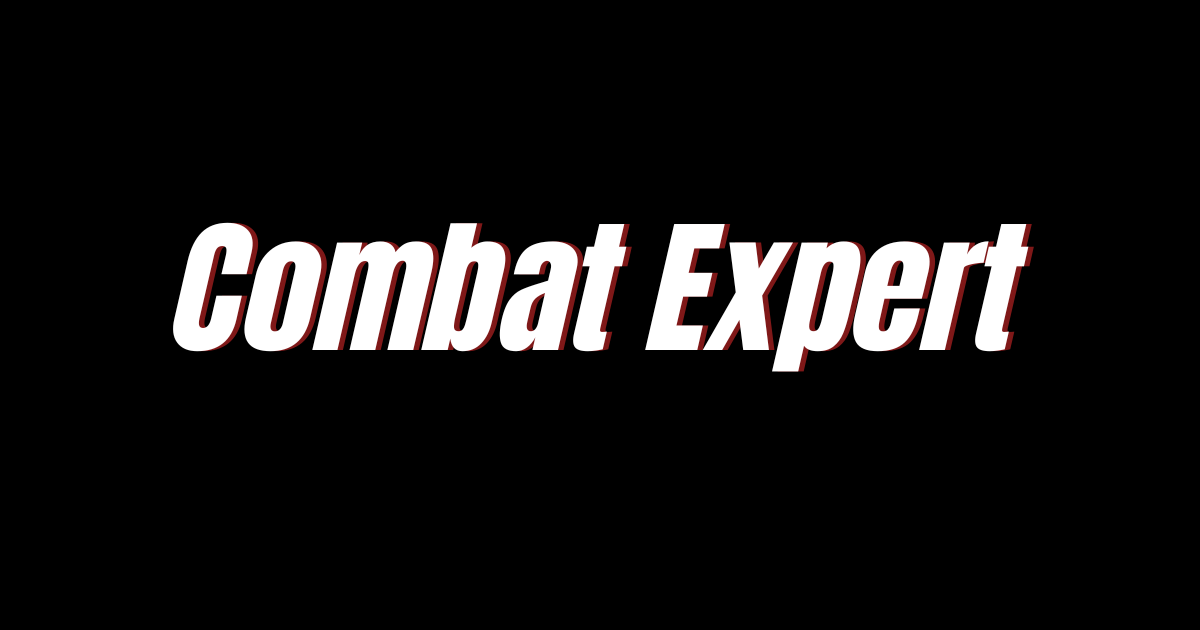
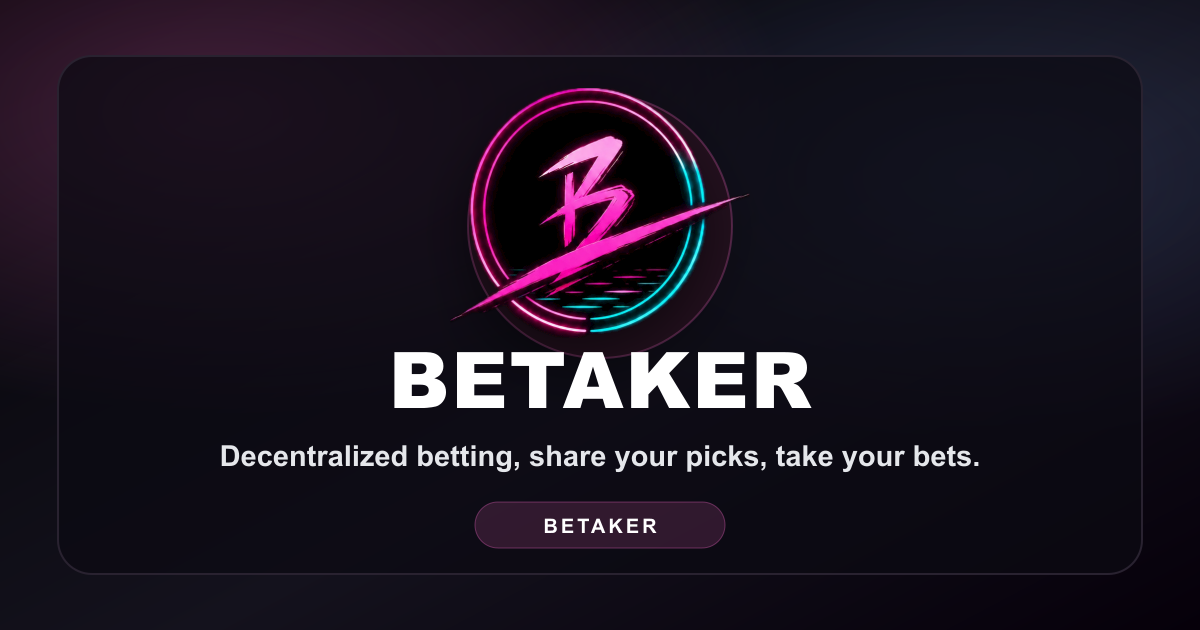
Update BETAKER branding and mobile header

diff --git a/src/compositions/app/MobileMenuSheet.tsx b/src/compositions/app/MobileMenuSheet.tsx
@@ -9,10 +9,8 @@ type MobileMenuSheetProps = {
   isOpen: boolean
   gameStatusFilter: 'all' | 'live' | 'upcoming'
   sportFilter: string
-  gameSearchQuery: string
   sports: SportFilterItem[]
   liveSports: SportFilterItem[]
-  onGameSearchQueryChange: (value: string) => void
   onClose: () => void
   onSelectGameStatus: (value: 'all' | 'live' | 'upcoming') => void
   onSelectSport: (value: string) => void
@@ -31,10 +29,8 @@ export function MobileMenuSheet({
   isOpen,
   gameStatusFilter,
   sportFilter,
-  gameSearchQuery,
   sports,
   liveSports,
-  onGameSearchQueryChange,
   onClose,
   onSelectGameStatus,
   onSelectSport,
@@ -100,35 +96,7 @@ export function MobileMenuSheet({
       />
       <aside className="ui-surface-soft absolute inset-y-0 right-0 flex w-[min(84vw,340px)] flex-col border-l p-4 shadow-2xl">
         <div className="flex items-center gap-2">
-          <p className="ui-text-strong m-0 shrink-0 text-base font-semibold">{t('games.sports')}</p>
-          <div className="flex h-8 min-w-0 flex-1 items-center gap-2 rounded-md border border-[color:var(--app-border)] bg-[color:var(--app-surface)] px-2 transition focus-within:border-[color:color-mix(in_srgb,var(--app-accent)_55%,transparent)]">
-            <label className="sr-only" htmlFor="mobile-menu-game-search">{t('common.search')}</label>
-            <svg aria-hidden="true" className="ui-text-muted h-3.5 w-3.5 shrink-0" fill="none" stroke="currentColor" strokeWidth="1.8" viewBox="0 0 24 24">
-              <circle cx="11" cy="11" r="6.5" />
-              <path d="M16 16L21 21" />
-            </svg>
-            <input
-              id="mobile-menu-game-search"
-              className="ui-text-strong min-w-0 flex-1 border-0 bg-transparent text-xs font-semibold outline-none placeholder:text-[color:var(--app-text-muted)]"
-              placeholder={t('games.searchPlaceholder')}
-              type="search"
-              value={gameSearchQuery}
-              onChange={(event) => onGameSearchQueryChange(event.target.value)}
-            />
-            {gameSearchQuery ? (
-              <button
-                aria-label={t('common.close')}
-                className="ui-text-muted inline-flex h-5 w-5 shrink-0 items-center justify-center rounded-full border-0 bg-transparent transition hover:text-[color:var(--app-text-strong)]"
-                onClick={() => onGameSearchQueryChange('')}
-                type="button"
-              >
-                <svg aria-hidden="true" className="h-3.5 w-3.5" fill="none" stroke="currentColor" strokeWidth="2" viewBox="0 0 24 24">
-                  <path d="M6 6l12 12" strokeLinecap="round" />
-                  <path d="M18 6 6 18" strokeLinecap="round" />
-                </svg>
-              </button>
-            ) : null}
-          </div>
+          <p className="ui-text-strong m-0 min-w-0 flex-1 text-base font-semibold">{t('games.sports')}</p>
           <button className="ui-btn-secondary btn-shell inline-flex h-8 w-8 items-center justify-center" onClick={onClose} type="button">
             <svg aria-hidden="true" className="h-4 w-4" fill="none" viewBox="0 0 24 24">
               <path d="M6 6L18 18" stroke="currentColor" strokeWidth="1.8" />

diff --git a/api/_lib/marketOgImage.js b/api/_lib/marketOgImage.js
@@ -33,15 +33,15 @@ function getInitials(name) {
 }
 
 const COLORS = {
-  bg: '#000000',
-  surface: '#0b0f14',
-  surfaceSoft: '#0f141c',
-  border: '#1f2937',
-  textStrong: '#e6eef8',
-  textBody: '#b5c2d2',
-  textMuted: '#8090a4',
-  accent: '#ff6b00',
-  accentSoft: '#3a2519',
+  bg: '#030306',
+  surface: '#0c0b12',
+  surfaceSoft: '#14121d',
+  border: '#292230',
+  textStrong: '#ffffff',
+  textBody: '#e5e7eb',
+  textMuted: '#9ca3af',
+  accent: '#d35aab',
+  accentSoft: '#24111f',
 }
 
 function formatOdds(odds) {
@@ -83,9 +83,9 @@ function ParticipantBadge({ name, align, imageUrl }) {
           style: {
             width: '100%',
             height: '100%',
-            border: '1px solid rgba(255, 107, 0, 0.24)',
+            border: '1px solid rgba(211, 90, 171, 0.24)',
             borderRadius: 999,
-            background: `linear-gradient(180deg, rgba(255, 107, 0, 0.22), ${COLORS.surface})`,
+            background: `linear-gradient(180deg, rgba(211, 90, 171, 0.22), ${COLORS.surface})`,
             alignItems: 'center',
             justifyContent: 'center',
           },
@@ -232,11 +232,11 @@ export function MarketOgImage({ game, marketPreview, participantImages = [] }) {
               height: 36,
               borderRadius: 999,
               background: COLORS.accent,
-              boxShadow: '0 0 0 5px rgba(255, 107, 0, 0.14)',
+              boxShadow: '0 0 0 5px rgba(211, 90, 171, 0.14)',
             },
           },
         ),
-        'Combat Expert',
+        'BETAKER',
       ),
       h(
         'div',
@@ -428,7 +428,7 @@ export function MarketOgImage({ game, marketPreview, participantImages = [] }) {
             },
           },
         ),
-        'combatexpert.xyz',
+        'BETAKER',
       ),
     ),
   )

diff --git a/api/_lib/picksOgHelpers.js b/api/_lib/picksOgHelpers.js
@@ -1,15 +1,15 @@
 import { getParticipantNames } from './marketOgImage.js'
 
 export const PICKS_OG_COLORS = {
-  bg: '#030405',
-  surface: '#0b0f14',
-  surfaceSoft: '#111821',
-  border: '#2d3949',
-  textStrong: '#f4f7fb',
-  textBody: '#c7d0dd',
-  textMuted: '#7f8da1',
-  accent: '#ff6b00',
-  accentDark: '#522511',
+  bg: '#030306',
+  surface: '#0c0b12',
+  surfaceSoft: '#14121d',
+  border: '#292230',
+  textStrong: '#ffffff',
+  textBody: '#e5e7eb',
+  textMuted: '#9ca3af',
+  accent: '#d35aab',
+  accentDark: '#24111f',
 }
 
 export function shortenWallet(wallet) {

diff --git a/api/_lib/picksOgCards.js b/api/_lib/picksOgCards.js
@@ -39,7 +39,7 @@ function ParticipantFace({ name, imageUrl, size = 132 }) {
             style: {
               width: '100%',
               height: '100%',
-              background: 'radial-gradient(circle at 35% 28%, rgba(255, 107, 0, 0.28), rgba(17, 24, 33, 0.98))',
+              background: 'radial-gradient(circle at 35% 28%, rgba(211, 90, 171, 0.28), rgba(20, 18, 29, 0.98))',
               color: COLORS.textStrong,
               alignItems: 'center',
               justifyContent: 'center',
@@ -109,8 +109,8 @@ export function PickCard({ selection, game, index, imageUrlByName, variant }) {
             style: {
               minWidth: isFeature ? 72 : 54,
               height: isFeature ? 44 : 34,
-              border: '1px solid rgba(255, 107, 0, 0.42)',
-              background: 'rgba(82, 37, 17, 0.9)',
+              border: '1px solid rgba(211, 90, 171, 0.42)',
+              background: 'rgba(36, 17, 31, 0.9)',
               color: COLORS.accent,
               alignItems: 'center',
               justifyContent: 'center',
@@ -158,10 +158,10 @@ export function PickCard({ selection, game, index, imageUrlByName, variant }) {
       {
         style: {
           minHeight: isFeature ? 76 : 54,
-          border: '1px solid rgba(255, 107, 0, 0.28)',
+          border: '1px solid rgba(211, 90, 171, 0.28)',
           borderRadius: 12,
           padding: isFeature ? '0 22px' : '0 14px',
-          background: 'rgba(82, 37, 17, 0.76)',
+          background: 'rgba(36, 17, 31, 0.76)',
           alignItems: 'center',
           justifyContent: 'space-between',
           gap: 14,
@@ -213,7 +213,7 @@ export function PickCard({ selection, game, index, imageUrlByName, variant }) {
             height: isFeature ? 54 : 40,
             borderRadius: 999,
             background: COLORS.accent,
-            color: '#100804',
+            color: '#ffffff',
             alignItems: 'center',
             justifyContent: 'center',
             fontSize: isFeature ? 31 : 22,

diff --git a/src/compositions/Header.tsx b/src/compositions/Header.tsx
@@ -80,7 +80,7 @@ export function Header({
   const primaryButtonClass = `ui-btn-primary ${actionButtonClass}`
   const iconButtonClass =
     'ui-btn-secondary btn-shell inline-flex h-8 w-8 items-center justify-center text-xs font-semibold transition disabled:cursor-not-allowed disabled:opacity-60 md:btn-shell-lg'
-  const logoClass = 'block h-10 w-auto max-w-[150px] object-contain md:h-10 md:max-w-[190px]'
+  const logoClass = 'block h-10 w-auto max-w-[112px] object-contain md:h-10 md:max-w-[190px]'
   const titleWrapperClass = 'min-w-0 self-center py-0 md:py-0.5'
   const connectErrorClass = 'ui-state-danger m-0 rounded-md border px-2 py-1 text-right text-xs font-medium'
   const accountTriggerClass =
@@ -128,7 +128,7 @@ export function Header({
 
   return (
     <>
-      <header className="section-shell grid min-h-[56px] grid-cols-[minmax(0,1fr)_auto] items-center gap-2.5 bg-transparent px-2.5 py-1 shadow-none md:min-h-0 md:grid-cols-[240px_minmax(0,1fr)_316px] md:gap-4 md:px-4 md:py-2 desktop-surface-fill desktop-surface-variant">
+      <header className="section-shell grid min-h-[56px] grid-cols-[auto_minmax(0,1fr)_auto] items-center gap-1.5 bg-transparent px-2.5 py-1 shadow-none md:min-h-0 md:grid-cols-[240px_minmax(0,1fr)_316px] md:gap-4 md:px-4 md:py-2 desktop-surface-fill desktop-surface-variant">
         <div className="flex min-w-0 items-center">
           <div className={titleWrapperClass}>
             <h1 className="m-0">
@@ -250,12 +250,12 @@ function HeaderGameSearch({
   const { t } = useI18n()
 
   return (
-    <form className="hidden min-w-0 justify-self-start md:flex md:w-[min(100%,19rem)]" onSubmit={(event) => event.preventDefault()}>
-      <label className="group flex h-10 w-full min-w-0 items-center gap-2.5 rounded-full border border-[color:color-mix(in_srgb,var(--app-border)_105%,transparent)] bg-black/15 px-4 transition focus-within:border-[color:color-mix(in_srgb,var(--app-accent)_55%,transparent)] focus-within:bg-black/20">
+    <form className="flex min-w-0 justify-self-stretch md:justify-self-start md:w-[min(100%,19rem)]" onSubmit={(event) => event.preventDefault()}>
+      <label className="group flex h-9 w-full min-w-0 items-center gap-2 rounded-full border border-[color:color-mix(in_srgb,var(--app-border)_105%,transparent)] bg-black/15 px-3 transition focus-within:border-[color:color-mix(in_srgb,var(--app-accent)_55%,transparent)] focus-within:bg-black/20 md:h-10 md:gap-2.5 md:px-4">
         <span className="sr-only">{t('common.search')}</span>
         <svg
           aria-hidden="true"
-          className="h-5 w-5 shrink-0 text-[color:var(--app-text-muted)] transition group-focus-within:text-[color:var(--app-text-body)]"
+          className="h-4 w-4 shrink-0 text-[color:var(--app-text-muted)] transition group-focus-within:text-[color:var(--app-text-body)] md:h-5 md:w-5"
           fill="none"
           stroke="currentColor"
           strokeWidth="2"
@@ -265,7 +265,7 @@ function HeaderGameSearch({
           <path d="M16.5 16.5 21 21" strokeLinecap="round" />
         </svg>
         <input
-          className="min-w-0 flex-1 border-0 bg-transparent text-base font-semibold text-[color:var(--app-text-strong)] outline-none placeholder:text-[color:var(--app-text-muted)]"
+          className="min-w-0 flex-1 border-0 bg-transparent text-sm font-semibold text-[color:var(--app-text-strong)] outline-none placeholder:text-[color:var(--app-text-muted)] md:text-base"
           placeholder={t('games.searchPlaceholder')}
           type="search"
           value={value}

diff --git a/api/_lib/picksOgImage.js b/api/_lib/picksOgImage.js
@@ -38,7 +38,7 @@ export function PicksOgImage({ share, games = [], participantImages = [] }) {
         width: '100%',
         height: '100%',
         overflow: 'hidden',
-        background: `radial-gradient(circle at 15% 15%, rgba(255, 107, 0, 0.22), transparent 26%), radial-gradient(circle at 82% 28%, rgba(244, 247, 251, 0.08), transparent 22%), linear-gradient(135deg, ${COLORS.bg}, #0b1119 56%, #060708)`,
+        background: `radial-gradient(circle at 15% 15%, rgba(211, 90, 171, 0.22), transparent 26%), radial-gradient(circle at 82% 28%, rgba(122, 168, 255, 0.12), transparent 22%), linear-gradient(135deg, ${COLORS.bg}, #14121d 56%, #06000a)`,
         color: COLORS.textStrong,
         fontFamily: 'Space Grotesk, Noto Sans KR, Segoe UI, Arial, sans-serif',
         flexDirection: 'column',
@@ -73,7 +73,7 @@ export function PicksOgImage({ share, games = [], participantImages = [] }) {
             height: 30,
             borderRadius: 999,
             background: COLORS.accent,
-            boxShadow: '0 0 0 5px rgba(255, 107, 0, 0.16)',
+            boxShadow: '0 0 0 5px rgba(211, 90, 171, 0.16)',
           },
         }),
         h(
@@ -86,7 +86,7 @@ export function PicksOgImage({ share, games = [], participantImages = [] }) {
               fontStyle: 'italic',
             },
           },
-          'Combat Expert Picks',
+          'BETAKER Picks',
         ),
       ),
       h(
@@ -117,7 +117,7 @@ export function PicksOgImage({ share, games = [], participantImages = [] }) {
               height: 42,
               borderRadius: 999,
               padding: '0 18px',
-              background: 'rgba(82, 37, 17, 0.92)',
+              background: 'rgba(36, 17, 31, 0.92)',
               color: COLORS.textStrong,
               alignItems: 'center',
               justifyContent: 'center',
@@ -163,7 +163,7 @@ export function PicksOgImage({ share, games = [], participantImages = [] }) {
           fontWeight: 900,
         },
       },
-      h('div', {}, 'combatexpert.xyz'),
+      h('div', {}, 'BETAKER'),
       h('div', {}, hiddenCount > 0 ? `+${hiddenCount} more picks` : 'Shared betslip'),
     ),
   )

diff --git a/index.html b/index.html
@@ -16,17 +16,17 @@
     </noscript>
     <meta name="viewport" content="width=device-width, initial-scale=1.0, viewport-fit=cover" />
     <meta name="theme-color" content="#030306" />
-    <meta name="description" content="BETAKER - Explore MMA fights, markets, and betting trends in real time." />
+    <meta name="description" content="BETAKER - Decentralized betting, share your picks, take your bets." />
     <meta property="og:type" content="website" />
     <meta property="og:site_name" content="BETAKER" />
     <meta property="og:title" content="BETAKER" />
-    <meta property="og:description" content="Explore MMA fights, markets, and betting trends in real time." />
+    <meta property="og:description" content="Decentralized betting, share your picks, take your bets." />
     <meta property="og:url" content="https://combatexpert.xyz/" />
-    <meta property="og:image" content="https://combatexpert.xyz/og-image.png?v=3" />
+    <meta property="og:image" content="https://combatexpert.xyz/og-image.png?v=4" />
     <meta name="twitter:card" content="summary_large_image" />
     <meta name="twitter:title" content="BETAKER" />
-    <meta name="twitter:description" content="Explore MMA fights, markets, and betting trends in real time." />
-    <meta name="twitter:image" content="https://combatexpert.xyz/og-image.png?v=3" />
+    <meta name="twitter:description" content="Decentralized betting, share your picks, take your bets." />
+    <meta name="twitter:image" content="https://combatexpert.xyz/og-image.png?v=4" />
     <title>BETAKER</title>
     <style>
       :root {

diff --git a/api/share/market/[gameId].js b/api/share/market/[gameId].js
@@ -1,8 +1,8 @@
 import { fetchGamesByIds } from '../../_lib/azuro.js'
 import { firstQueryValue, sendShareHtml, SITE_URL } from '../../_lib/shareHtml.js'
 
-const DEFAULT_TITLE = 'Combat Expert'
-const DEFAULT_DESCRIPTION = 'Explore MMA fights, markets, and betting trends in real time.'
+const DEFAULT_TITLE = 'BETAKER'
+const DEFAULT_DESCRIPTION = 'Decentralized betting, share your picks, take your bets.'
 
 function getParticipantNames(game) {
   if (!Array.isArray(game?.participants)) return []
@@ -25,7 +25,7 @@ function buildDescription(game) {
       }).format(startsAt)
     : ''
 
-  return [leagueName, formattedStart, 'Market is live on Combat Expert.'].filter(Boolean).join(' · ')
+  return [leagueName, formattedStart, 'Market is live on BETAKER.'].filter(Boolean).join(' · ')
 }
 
 export default async function handler(req, res) {

diff --git a/api/share/picks/[shareId].js b/api/share/picks/[shareId].js
@@ -2,8 +2,8 @@ import { loadServerEnv } from '../../_lib/env.js'
 import { fetchReferralShareById } from '../../_lib/referralStore.js'
 import { firstQueryValue, sendShareHtml, SITE_URL } from '../../_lib/shareHtml.js'
 
-const DEFAULT_TITLE = 'Combat Expert Picks'
-const DEFAULT_DESCRIPTION = 'Open this shared Combat Expert betslip.'
+const DEFAULT_TITLE = 'BETAKER Picks'
+const DEFAULT_DESCRIPTION = 'Open this shared BETAKER betslip.'
 
 function shortenWallet(wallet) {
   const value = String(wallet || '').trim()
@@ -13,7 +13,7 @@ function shortenWallet(wallet) {
 function buildDescription(share) {
   const count = Array.isArray(share?.selections) ? share.selections.length : 0
   const wallet = shortenWallet(share?.referrerWallet)
-  const prefix = count > 0 ? `${count}-pick Combat Expert betslip` : DEFAULT_DESCRIPTION
+  const prefix = count > 0 ? `${count}-pick BETAKER betslip` : DEFAULT_DESCRIPTION
   return wallet ? `${prefix} shared by ${wallet}.` : prefix
 }
 

diff --git a/api/_lib/shareHtml.js b/api/_lib/shareHtml.js
@@ -35,7 +35,7 @@ export function sendShareHtml(
     <title>${escapeHtml(title)}</title>
     <meta name="description" content="${escapeHtml(description)}" />
     <meta property="og:type" content="website" />
-    <meta property="og:site_name" content="Combat Expert" />
+    <meta property="og:site_name" content="BETAKER" />
     <meta property="og:title" content="${escapeHtml(title)}" />
     <meta property="og:description" content="${escapeHtml(description)}" />
     <meta property="og:url" content="${escapeHtml(shareUrl)}" />
@@ -50,7 +50,7 @@ export function sendShareHtml(
     <script>location.replace(${JSON.stringify(appUrl)})</script>
   </head>
   <body>
-    <a href="${escapeHtml(appUrl)}">Open Combat Expert</a>
+    <a href="${escapeHtml(appUrl)}">Open BETAKER</a>
   </body>
 </html>`)
 }

diff --git a/src/App.tsx b/src/App.tsx
@@ -238,10 +238,8 @@ function App() {
         isOpen={shell.isMobileMenuOpen}
         gameStatusFilter={filters.gameStatusFilter}
         sportFilter={filters.sportFilter}
-        gameSearchQuery={filters.gameSearchQuery}
         sports={sportsNavigationItems}
         liveSports={liveSportsNavigationItems}
-        onGameSearchQueryChange={filters.setGameSearchQuery}
         onClose={shell.closeMobileMenu}
         onSelectGameStatus={handleGameStatusNavigation}
         onSelectSport={handleSportNavigation}

diff --git a/src/compositions/SocialLinks.tsx b/src/compositions/SocialLinks.tsx
@@ -20,7 +20,7 @@ const socialLinks = [
   },
   {
     key: 'x',
-    href: 'https://x.com/combatexpertXYZ',
+    href: 'https://x.com/betaker_xyz',
     imageSrc: '/Desktop/logo-white.png',
     labelKey: 'guide.x',
   },